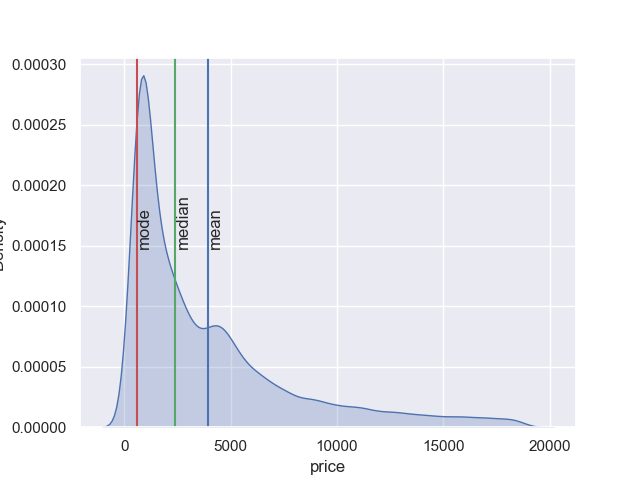
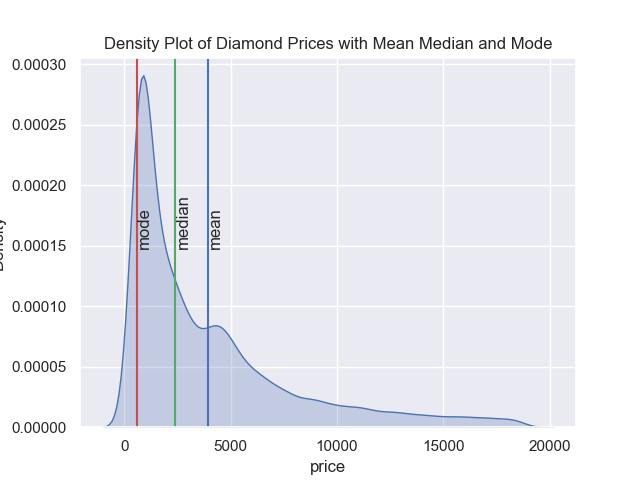
Added titles to all plots

Changed region(s): [[0.1562, 0.0625, 0.875, 0.125]]

diff --git a/Official/index.html b/Official/index.html
@@ -186,7 +186,7 @@
                     <img class = "Stat_img" src="images/my_plot6.png" alt="Graphy daphy Missing">
                 
                     
-                    <h1 style= color:white> PowerBI Housing Project</h1>
+                    <h1> PowerBI Housing Project</h1>
                     <p><a href="documents/Housing_Vis_Scaled.pbix">PowerBi Example</a> that compares scaled data of houses located near San Francisco California. </p>
                     <h1 style="padding-top: 50px;">&nbsp</h1>
 
@@ -201,7 +201,7 @@
                 <h1 style="padding-top: 300px;">&nbsp</h1>
                 <h1>There are Many Ways to Visualize!</h1>
                     <div class="row" style="padding-bottom: 300px;">
-                        <h2 style="padding-bottom: 50px; color:white">Try Clicking on One of Them!</h2>
+                        <h2 style="padding-bottom: 50px; text-align: center; color:white">Try Clicking on One:</h2>
                         <div class="column_3">
                             <img src = "images/my_plot2.png" style = "width:100%; margin-bottom: -4px;" onclick="openModal();currentSlide2(1)" class="hover-shadow cursor">
                         </div>
